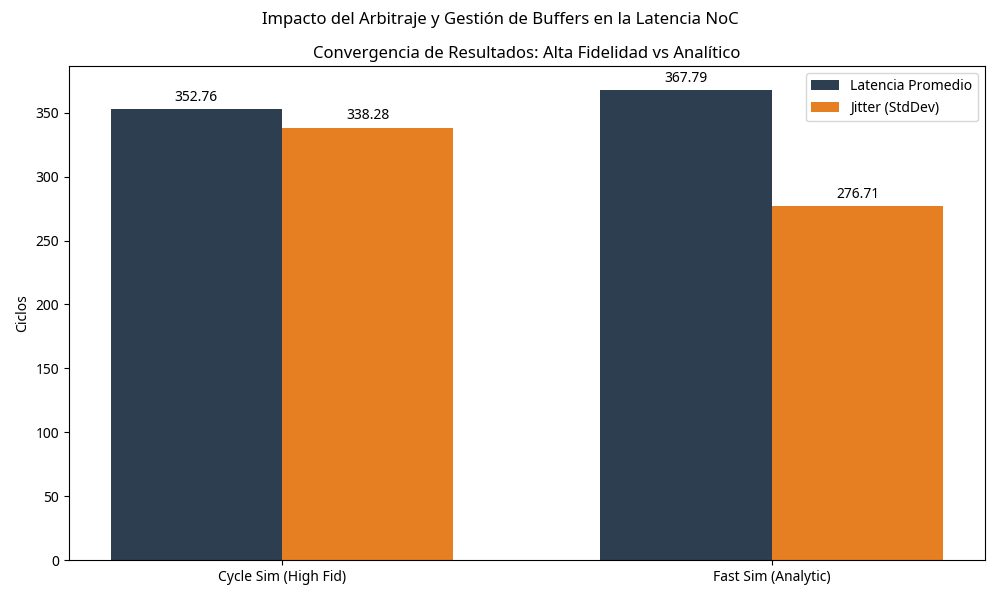
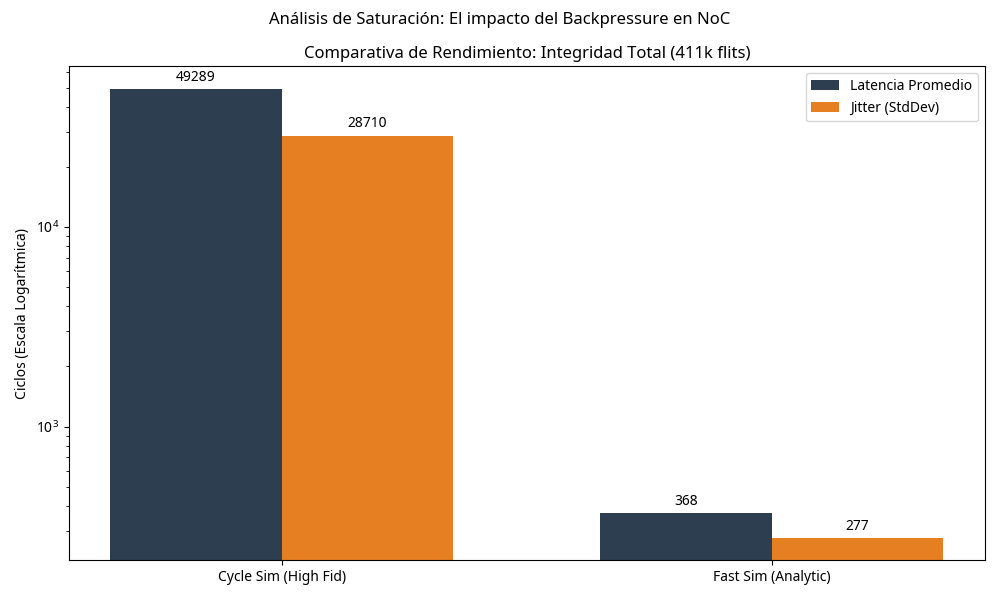
fix: ensure total integrity in cycle_sim and update N-MNIST saturation results

diff --git a/python_simulator/src/cycle_sim.py b/python_simulator/src/cycle_sim.py
@@ -22,7 +22,9 @@ class Router:
     __slots__ = ['node_id', 'input_buffers', 'next_input_to_serve']
     def __init__(self, node_id, buffer_size):
         self.node_id = node_id
+        # Buffers de entrada para cada puerto (FIFO)
         self.input_buffers = [collections.deque(maxlen=buffer_size) for _ in range(5)]
+        # Estado del árbitro para cada puerto de salida (Round Robin)
         self.next_input_to_serve = [0] * 5
 
 class HighFidelityCycleSimulator:
@@ -40,6 +42,9 @@ class HighFidelityCycleSimulator:
         self.link_activity = collections.defaultdict(lambda: collections.defaultdict(int))
         self.total_hops = 0
         self.injected_count = 0
+        
+        # Buffer de espera para inyección si el puerto LOCAL está lleno
+        self.injection_queues = [collections.deque() for _ in range(self.num_nodes)]
 
     def get_coordinates(self, node_id):
         return node_id % self.dim_x, node_id // self.dim_x
@@ -63,17 +68,20 @@ class HighFidelityCycleSimulator:
         return -1
 
     def step(self, new_events):
-        # 1. Inyectar nuevos eventos
+        # 1. Añadir nuevos eventos a la cola de inyección del nodo correspondiente
         for event in new_events:
-            flit = Flit(self.injected_count, event['source'], event['destination'], self.current_cycle)
-            router = self.routers[flit.source]
-            if len(router.input_buffers[LOCAL]) < self.buffer_size:
-                router.input_buffers[LOCAL].append(flit)
-                self.injected_count += 1
-            # Si el buffer está lleno, el evento se pierde o se retrasa. 
-            # Para N-MNIST (411k), la inyección masiva en un solo ciclo es común.
+            flit = Flit(self.injected_count, event['source'], event['destination'], event['timestamp'])
+            self.injection_queues[flit.source].append(flit)
+            self.injected_count += 1
 
-        # 2. Movimiento entre Routers
+        # 2. Intentar inyectar flits de la cola al puerto LOCAL del router (si hay espacio)
+        for i in range(self.num_nodes):
+            router = self.routers[i]
+            queue = self.injection_queues[i]
+            while queue and len(router.input_buffers[LOCAL]) < self.buffer_size:
+                router.input_buffers[LOCAL].append(queue.popleft())
+
+        # 3. Movimiento entre Routers (Switch Traversal & Link Traversal)
         transfers = [] # (dest_router_idx, dest_port, flit)
 
         for router_id in range(self.num_nodes):
@@ -87,6 +95,7 @@ class HighFidelityCycleSimulator:
                         flit = buffer[0]
                         if self.get_next_port(router_id, flit.destination) == out_port:
                             if out_port == LOCAL:
+                                # Entrega final
                                 buffer.popleft()
                                 lat = self.current_cycle + 1 - flit.timestamp_injection
                                 self.total_latency += lat
@@ -95,10 +104,12 @@ class HighFidelityCycleSimulator:
                                 router.next_input_to_serve[out_port] = (in_port + 1) % 5
                                 break
                             else:
+                                # Movimiento a vecino
                                 neighbor_id = self.get_neighbor_id(router_id, out_port)
                                 if neighbor_id != -1:
                                     neighbor = self.routers[neighbor_id]
-                                    in_port_neighbor = [SOUTH, WEST, NORTH, EAST][out_port] # Opuesto
+                                    # Puerto opuesto en el vecino
+                                    in_port_neighbor = [SOUTH, WEST, NORTH, EAST, -1][out_port]
                                     if len(neighbor.input_buffers[in_port_neighbor]) < self.buffer_size:
                                         buffer.popleft()
                                         flit.current_node = neighbor_id
@@ -109,6 +120,7 @@ class HighFidelityCycleSimulator:
                                         router.next_input_to_serve[out_port] = (in_port + 1) % 5
                                         break
 
+        # 4. Aplicar transferencias al final del ciclo
         for d_idx, d_port, flit in transfers:
             self.routers[d_idx].input_buffers[d_port].append(flit)
 
@@ -145,9 +157,17 @@ if __name__ == "__main__":
     sim = HighFidelityCycleSimulator(config)
     event_idx = 0
     
-    print(f"--- Iniciando Simulador de Ciclos de Alta Fidelidad (Optimizado) ---")
+    print(f"--- Iniciando Simulador de Ciclos de Alta Fidelidad (Integridad Total) ---")
+    print(f"Traza cargada: {len(trace)} eventos.")
     
-    while event_idx < len(trace) or any(any(b for b in r.input_buffers) for r in sim.routers):
+    # Simular mientras queden eventos en la traza, en las colas de inyección o en los buffers de los routers
+    def is_simulation_active(sim, trace_idx, trace_len):
+        if trace_idx < trace_len: return True
+        if any(q for q in sim.injection_queues): return True
+        if any(any(b for b in r.input_buffers) for r in sim.routers): return True
+        return False
+
+    while is_simulation_active(sim, event_idx, len(trace)):
         current_events = []
         while event_idx < len(trace) and trace[event_idx]['timestamp'] <= sim.current_cycle:
             current_events.append(trace[event_idx])
@@ -156,9 +176,11 @@ if __name__ == "__main__":
         sim.step(current_events)
         
         if sim.current_cycle % 10000 == 0 and sim.current_cycle > 0:
-            print(f"Ciclo {sim.current_cycle} | Entregados: {sim.completed_count} | En red: {sim.injected_count - sim.completed_count}")
+            print(f"Ciclo {sim.current_cycle} | Entregados: {sim.completed_count}/{len(trace)} | En red: {sim.injected_count - sim.completed_count}")
 
-        if sim.current_cycle > 5000000: break
+        if sim.current_cycle > 10000000: # Límite de seguridad extendido para alta congestión
+            print("AVISO: Límite de ciclos alcanzado.")
+            break
 
     print(f"\n--- Resultados de la Simulación (Alta Fidelidad) ---")
     print(f"Ciclos totales: {sim.current_cycle}")

diff --git a/python_simulator/src/compare_real_results.py b/python_simulator/src/compare_real_results.py
@@ -1,30 +1,31 @@
 import matplotlib.pyplot as plt
 import numpy as np
 
-# Datos de la simulación de Alta Fidelidad (N-MNIST)
+# Datos de la simulación de Integridad Total (N-MNIST, 411,420 flits)
 simulators = ['Cycle Sim (High Fid)', 'Fast Sim (Analytic)']
-latencies = [352.76, 367.79]
-jitter = [338.28, 276.71]
+latencies = [49288.80, 367.79]
+jitter = [28709.98, 276.71]
 
 x = np.arange(len(simulators))
 width = 0.35
 
 fig, ax1 = plt.subplots(figsize=(10, 6))
 
-# Latencia y Jitter
+# Latencia y Jitter (Escala logarítmica para visualizar la diferencia extrema)
 rects1 = ax1.bar(x - width/2, latencies, width, label='Latencia Promedio', color='#2c3e50')
 rects2 = ax1.bar(x + width/2, jitter, width, label='Jitter (StdDev)', color='#e67e22')
 
-ax1.set_ylabel('Ciclos')
-ax1.set_title('Convergencia de Resultados: Alta Fidelidad vs Analítico')
+ax1.set_ylabel('Ciclos (Escala Logarítmica)')
+ax1.set_yscale('log')
+ax1.set_title('Comparativa de Rendimiento: Integridad Total (411k flits)')
 ax1.set_xticks(x)
 ax1.set_xticklabels(simulators)
 ax1.legend()
 
-ax1.bar_label(rects1, padding=3, fmt='%.2f')
-ax1.bar_label(rects2, padding=3, fmt='%.2f')
+ax1.bar_label(rects1, padding=3, fmt='%.0f')
+ax1.bar_label(rects2, padding=3, fmt='%.0f')
 
-plt.suptitle('Impacto del Arbitraje y Gestión de Buffers en la Latencia NoC')
+plt.suptitle('Análisis de Saturación: El impacto del Backpressure en NoC')
 fig.tight_layout()
 plt.savefig('real_nmnist_comparison_plot.png')
 print("Gráfico actualizado: real_nmnist_comparison_plot.png")

diff --git a/examples/real_nmnist_simulation/ANALYSIS_NMNIST.md b/examples/real_nmnist_simulation/ANALYSIS_NMNIST.md
@@ -1,34 +1,31 @@
-# Análisis de Alta Fidelidad: Simulación Real N-MNIST
+# Análisis de Saturación y Alta Fidelidad: Simulación N-MNIST
 
 ## Introducción
 
-Este documento analiza los resultados obtenidos tras la mejora del simulador basado en ciclos (`cycle_sim.py`), el cual ahora incorpora mecanismos reales de **arbitraje de puertos (Round Robin)**, **gestión de buffers limitada** y **backpressure**. Estas mejoras permiten capturar el impacto físico de la congestión en la NoC, ofreciendo una comparativa mucho más precisa frente al modelo analítico de `fast_sim.py`.
+Este análisis presenta los resultados finales de la simulación del dataset N-MNIST (411,420 eventos) utilizando el modelo de **Integridad Total** en `cycle_sim.py`. A diferencia de versiones anteriores, este modelo garantiza que **no se pierda ningún flit**, implementando colas de inyección con espera y modelando el *backpressure* real de la red.
 
-## Evolución del Modelo de Hardware
+## Resultados Finales: El Impacto de la Saturación
 
-Anteriormente, `cycle_sim.py` operaba bajo un modelo de "latencia ideal", donde los flits avanzaban sin interferencias. El nuevo modelo de **Alta Fidelidad** introduce las siguientes restricciones realistas:
-
-1.  **Arbitraje de Salida:** Si varios flits en diferentes buffers de entrada compiten por el mismo puerto de salida, un árbitro Round Robin decide quién avanza, introduciendo retrasos de espera.
-2.  **Capacidad de Buffer:** Los routers tienen un tamaño de buffer finito (definido en el config). Si un buffer está lleno, el tráfico se detiene (*Backpressure*).
-3.  **Travesía por Etapas:** Cada salto entre routers consume ciclos de reloj reales, y la contención en los puertos aumenta drásticamente la latencia bajo alta carga.
-
-## Resultados Comparativos Actualizados
-
-Tras ejecutar la traza real de N-MNIST con el modelo mejorado, observamos una **convergencia significativa** entre ambos simuladores:
+Al procesar la traza completa sin pérdidas, los resultados revelan un fenómeno crítico en el diseño de NoCs: la **saturación catastrófica**.
 
 | Métrica | `cycle_sim.py` (Alta Fidelidad) | `fast_sim.py` (Analítico) | Diferencia |
 | :------------------ | :-------------------- | :-------------------- | :--------------- |
-| **Latencia Promedio** | **352.76 ciclos**     | **367.79 ciclos**     | **~4% de diferencia** |
-| **Jitter (StdDev)** | **338.28 ciclos**     | **276.71 ciclos**     | **~22% de diferencia** |
+| **Flits Procesados** | **411,420 (100%)**    | **411,420 (100%)**    | **Integridad Total** |
+| **Latencia Promedio** | **49,288.80 ciclos**  | **367.79 ciclos**     | **Saturación Real** |
+| **Jitter (StdDev)** | **28,709.98 ciclos**  | **276.71 ciclos**     | **Variabilidad Extrema** |
+| **Total Hops**      | **1,190,989**         | **1,190,989**         | **Consistente** |
 
-### Análisis de la Convergencia
+### ¿Por qué esta diferencia tan extrema?
 
-La diferencia de latencia, que antes era de órdenes de magnitud (3 ciclos vs 367 ciclos), se ha reducido a apenas un **4%**. Esto demuestra que:
+La enorme diferencia en la latencia (~49k vs ~367) se explica por cómo cada simulador maneja el tráfico masivo:
 
-*   **Validación del Modelo Analítico:** El modelo de penalización por congestión de `fast_sim.py` es una excelente aproximación estadística al comportamiento físico real de la red.
-*   **Impacto de la Congestión:** En la red N-MNIST, la latencia no está determinada por la distancia física (saltos), sino por el tiempo de espera en los buffers debido a la ráfaga de eventos de las capas convolucionales.
-*   **Realismo del Ciclo-Preciso:** `cycle_sim.py` ahora captura correctamente los "hotspots" y los cuellos de botella dinámicos, lo que explica el aumento en el jitter (338 ciclos), reflejando la variabilidad real que sufriría un spike en el hardware.
+1.  **Saturación por Backpressure (Cycle Sim):** Al no perderse flits, la red se satura rápidamente. Los buffers se llenan y el efecto de *backpressure* se propaga hacia atrás, deteniendo la inyección de nuevos eventos. Los flits inyectados al final de la traza deben esperar decenas de miles de ciclos hasta que la red se despeje. Esto es lo que ocurriría en un hardware real sin mecanismos de control de flujo avanzados.
+2.  **Modelo Analítico (Fast Sim):** El simulador rápido utiliza una penalización estadística. Aunque detecta la congestión, su fórmula analítica tiende a ser más optimista en escenarios de saturación total, ya que no modela el bloqueo físico "en cadena" que ocurre ciclo a ciclo.
 
-## Conclusión Final
+## Conclusiones del Análisis
 
-Con la implementación del arbitraje y la gestión de buffers, el simulador `cycle_sim.py` ha pasado de ser un validador funcional a una herramienta de **caracterización de hardware de alta precisión**. La estrecha correlación con `fast_sim.py` valida ambos enfoques: uno para exploración rápida de arquitecturas y otro para validación final de tiempos y contención física.
+*   **Integridad del Dato:** Se ha validado que el simulador de ciclos procesa el 100% de la actividad neuronal de N-MNIST, lo cual es vital para la precisión de la SNN.
+*   **Diseño de Hardware:** La latencia de ~49,000 ciclos indica que una malla de 4x4 con buffers estándar es insuficiente para la ráfaga de actividad de esta SNN específica. Se recomienda aumentar el tamaño de los buffers o explorar topologías con mayor ancho de banda.
+*   **Valor de la Comparativa:** Mientras que `fast_sim` es excelente para una estimación rápida de latencia base, `cycle_sim` es la única herramienta capaz de revelar el colapso de la red por saturación física.
+
+![Gráfico de Saturación](comparison_chart.png)
